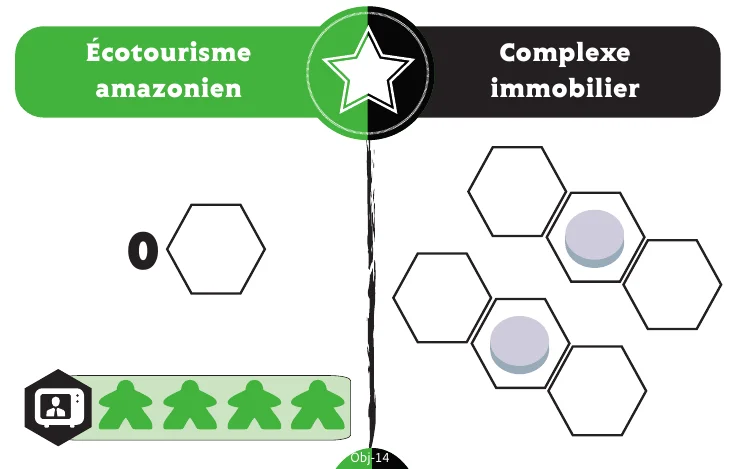
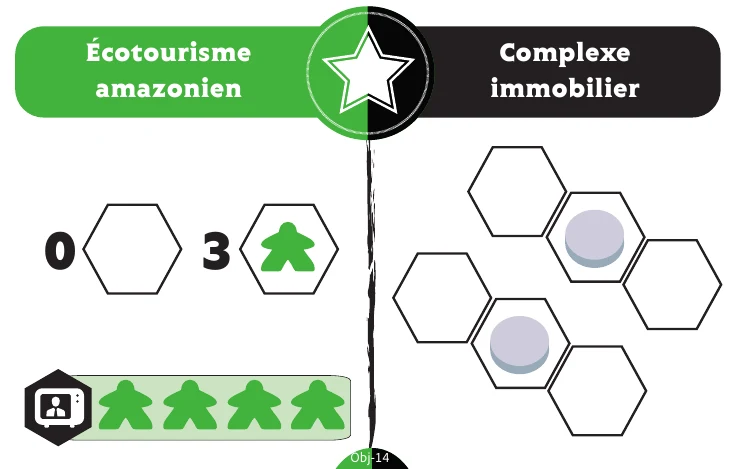
Objectif 14 Écotourisme : aucune zone vide + 3 Peuples sur le plateau
Claude-Session: https://claude.ai/code/session_019mekHYufM5kYLzaHXRVvRv

Changed region(s): [[0.125, 0.4179, 0.4688, 0.6269], [0.0625, 0.4776, 0.125, 0.597], [0.125, 0.4179, 0.2188, 0.5075]]

diff --git a/index.html b/index.html
@@ -1345,7 +1345,7 @@ const OBJ = {
           E:()=>matchMulti([[0,0,onMine(pP)],[-1,1,pP]],2),
           actF:{lbl:'1 Peuple sur un gisement minier boisé',run:placePeuple('Alliances',()=>allZ().filter(id=>ZB[id].kind==='mine'&&isWooded(id)))},
           actE:{lbl:'Récolter vos productions sur gisements miniers (+2 $ chacune)',run(c,done){ const ids=myProds(c).filter(id=>ZB[id].kind==='mine'); harvestCustom(c,ids,1,false,'récolte sur gisements miniers'); if(ids.length){ S.expl[c].money+=2*ids.length; statM(c,'+Récolte des cultures',2*ids.length); } done(); }} },
-  Obj14:{ F:()=>fAr('Obj14') && !allZ().some(isEmpty),
+  Obj14:{ F:()=>fAr('Obj14') && !allZ().some(isEmpty) && allZ().filter(id=>Z(id).meeple).length>=3,
           E:()=>{ const m=matchMulti([[0,0,pE],[1,0,pP],[2,0,pE]],2); return m?[m[1],m[4]]:null; },
           actF:{lbl:'Déplacer X Peuples vers des zones boisées',run(done,X=1){ let left=X; const one=()=>{ if(left<=0||!allZ().some(id=>Z(id).meeple)) return done(); let from=null;
             pickZones('Écotourisme',`Cliquez un Peuple à déplacer (${X-left+1}/${X})`,()=>allZ().filter(id=>Z(id).meeple),1,id=>{ from=id; },()=>{ if(!from) return done(); pickZones('Écotourisme','Cliquez une zone boisée de destination',()=>allZ().filter(z=>isWooded(z)&&!Z(z).meeple),1,to=>{ Z(from).meeple=false; Z(to).meeple=true; left--; },one); }); };
